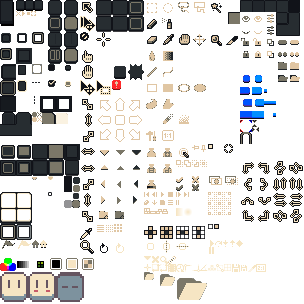
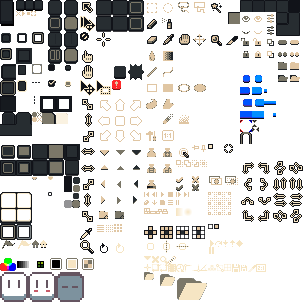
Recenter Canvas Size Buttons Fix Aseprite Face Tint Add note on Reload Skin to Readme

Changed region(s): [[0.0, 0.8882, 0.1776, 0.977], [0.3257, 0.3257, 0.4737, 0.4737], [0.4441, 0.4441, 0.4737, 0.4737]]

diff --git a/README.md b/README.md
@@ -4,14 +4,17 @@
 
 A work-in-progress dark theme for Aseprite. Tested in version 1.3 beta. For more about themes, including installation instructions, see the [documentation](https://www.aseprite.org/docs/extensions/themes/).
 
+If some UI elements do not change after the theme is `Select`ed in `Edit > Preferences > Theme`, go to `View > Refresh & Reload Skin`.
+
 Key differences:
 - Highlight blue is more saturated.
 - Wider sprite tabs.
 - Open padlock for editable layers.
 - Empty cels do not have circles.
+- Red-blue color onion skin frame on timeline.
 - Smaller cursor. (Native cursor is recommended.)
-- Smaller transform cursors. (rotate, scale, skew).
+- Smaller transform cursors: rotate, scale, skew.
 - Aseprite face icon is same as light theme.
-- Selected radio buttons more visible.
+- Selected radio buttons are more distinct.
 - Combo box menu dimensions.
 - Palette preset dropdown link icons.
